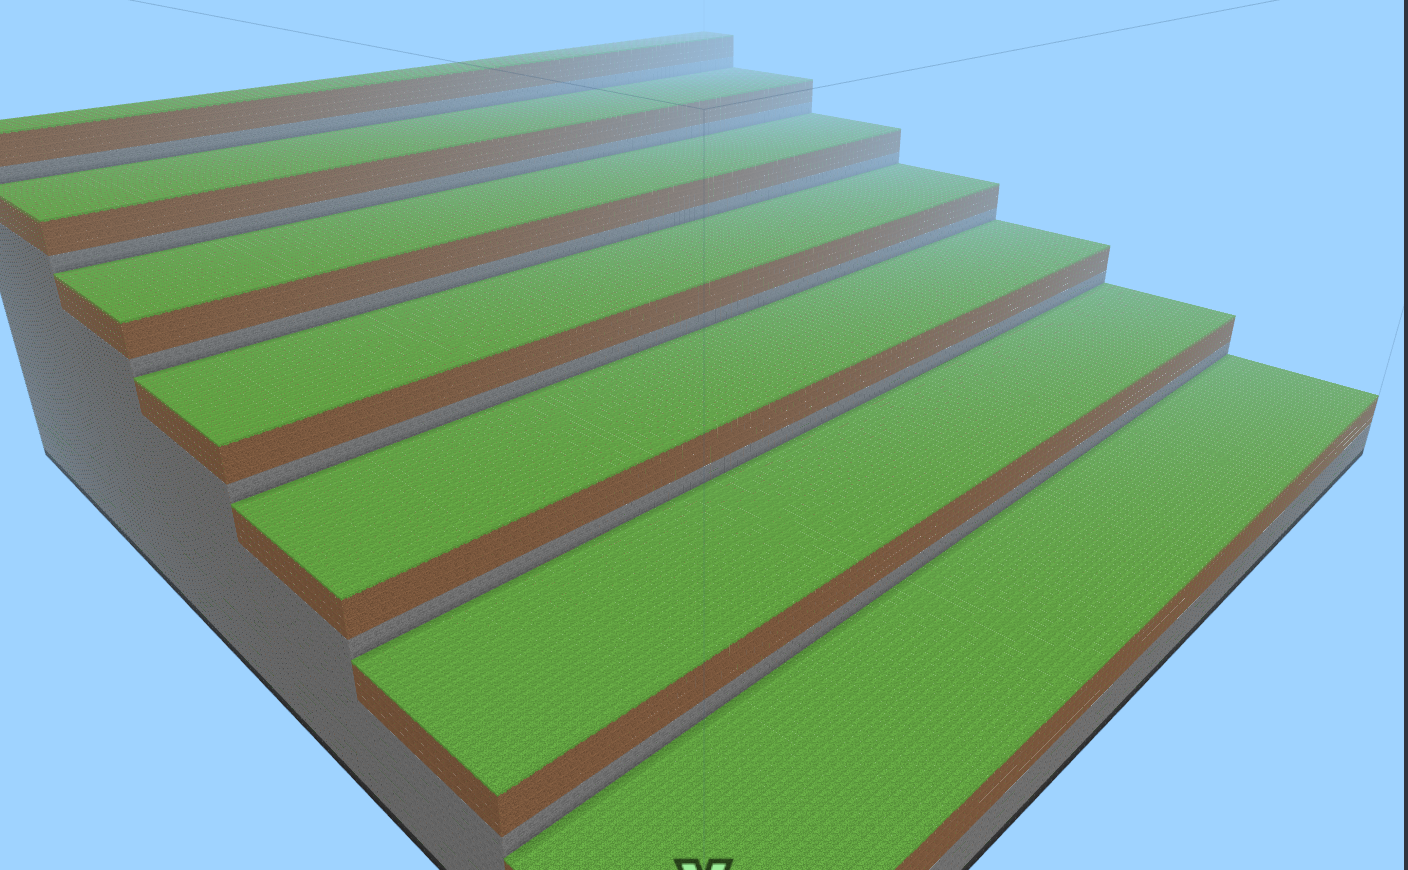
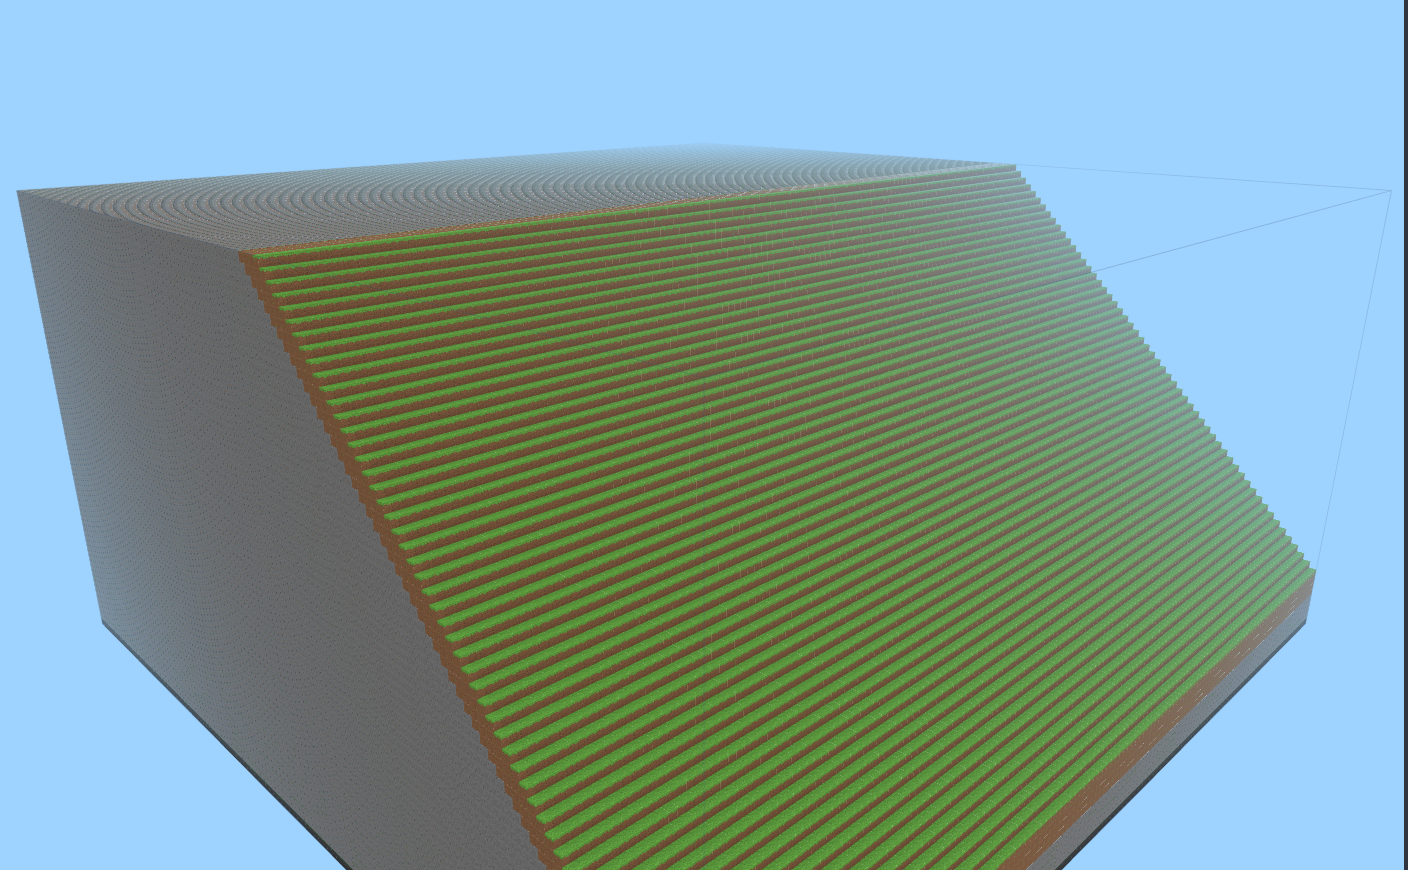
Étape 5 : le contre-exemple est la pente instinctive, un bloc par colonne

diff --git a/partie-1.md b/partie-1.md
@@ -384,11 +384,11 @@ Chaque colonne doit avoir *sa propre* hauteur.
 ### Défi
 <!-- ws:doit -->
 
-Range la construction d'une colonne dans une fonction `colonne(x, z, h)`. Puis fais monter ton terrain d'un bord à l'autre, en **pente régulière**, sans falaise. Les couches de l'étape 4 restent obligatoires.
+Range la construction d'une colonne dans une fonction `colonne(x, z, h)`. Puis fais monter ton terrain d'un bord à l'autre, en **pente douce**. Les couches de l'étape 4 restent obligatoires.
 
 Ce que tu dois avoir pour valider cette étape :
 
-- ton terrain monte d'un côté à l'autre, sans falaise ;
+- ton terrain monte d'un côté à l'autre, doucement : pas de mur, pas de falaise ;
 - sur la tranche, chaque colonne a ses couches.
 
 Tu dois obtenir quelque chose comme ça :
@@ -396,10 +396,10 @@ Tu dois obtenir quelque chose comme ça :
 ![Le terrain monte en escalier doux d'un bord à l'autre du monde, avec les couches visibles sur la tranche.](img/etape5-resultat.png)
 <!-- ws:scene {src: scenes/etape5.glb, show_axis: true, camera: {from: [-30, 72, -30], to: [64, 12, 64]}} -->
 
-Et voilà ce qu'on ne veut **pas** : des falaises.
+Et voilà ce qu'on ne veut **pas** : une pente trop raide.
 
-![Un escalier de marches de six blocs : à chaque marche, une falaise. Ce n'est pas une pente.](img/etape5-falaise.png)
-<!-- ws:scene {src: scenes/etape5-falaise.glb, show_axis: true, camera: {from: [-30, 72, -30], to: [64, 12, 64]}} -->
+![Quand x augmente de 1, la hauteur augmente de 1 : la pente grimpe comme un mur et se cogne au plafond du monde avant le milieu.](img/etape5-falaise.png)
+<!-- ws:scene {src: scenes/etape5-falaise.glb, show_axis: true, camera: {from: [-40, 80, -40], to: [64, 30, 64]}} -->
 
 <!-- ws: {type: hint} -->
 <details><summary>Indice 1</summary>
